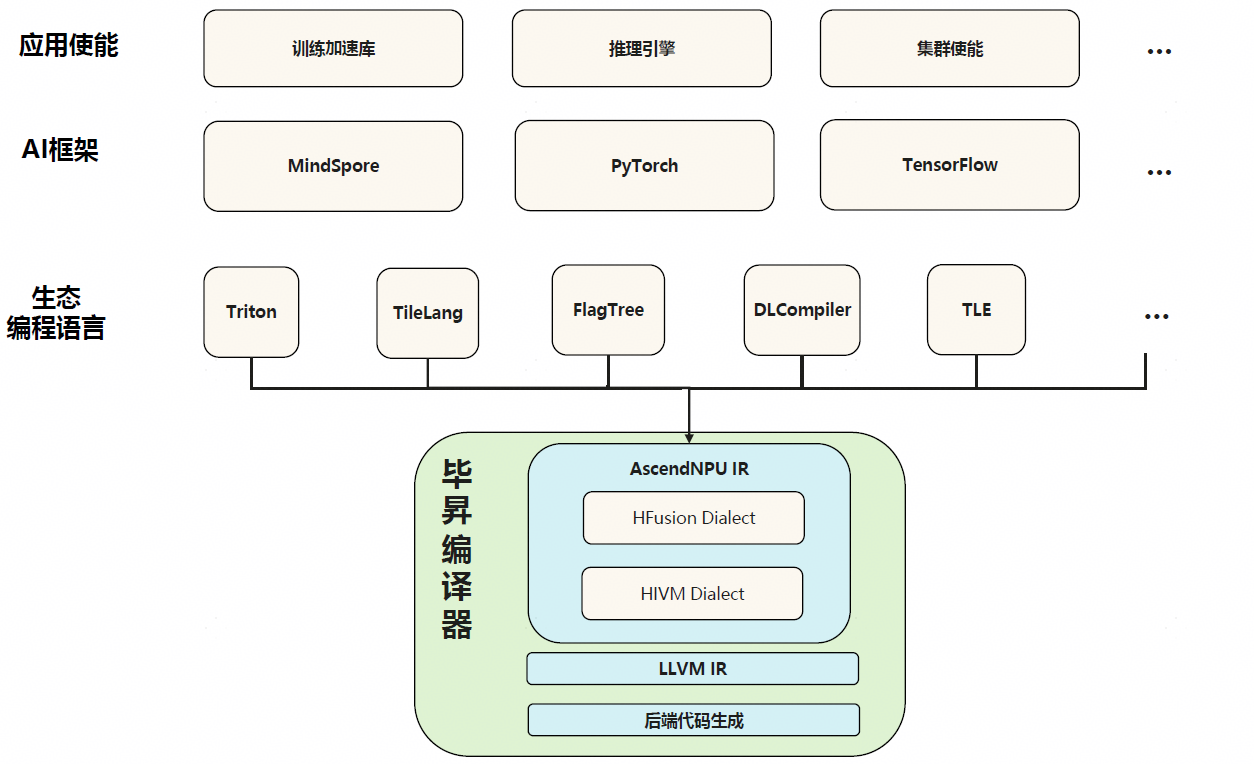
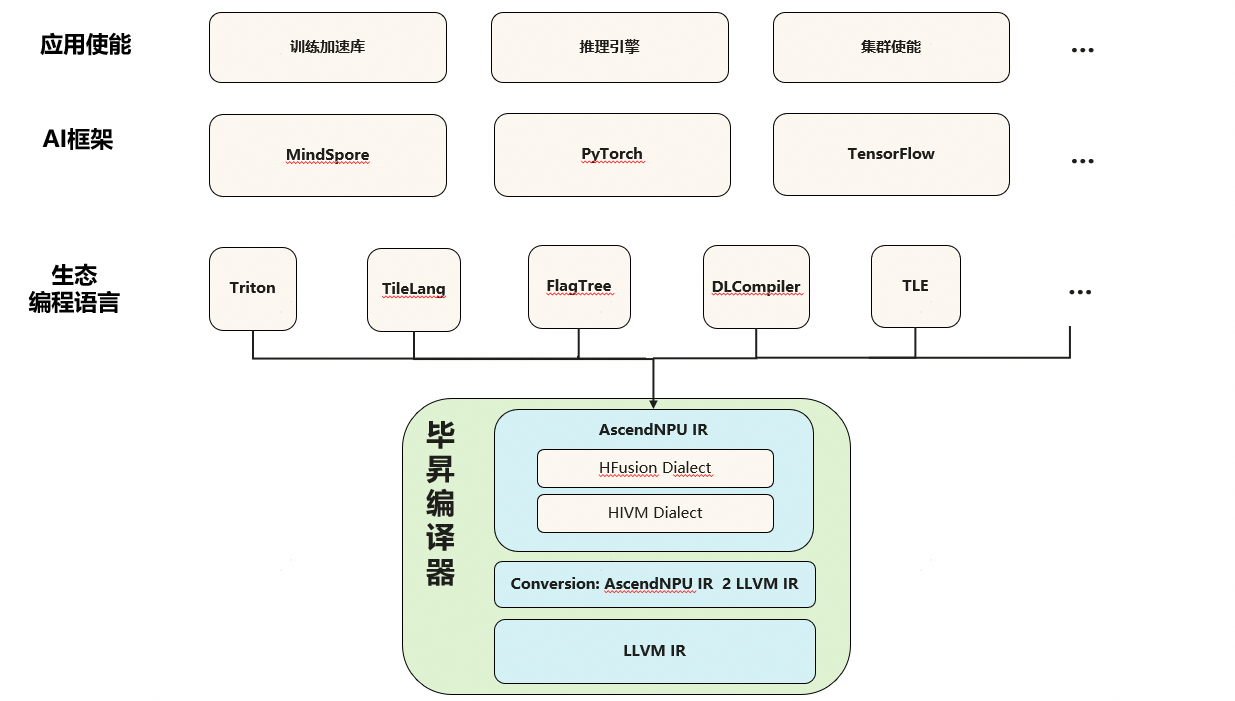
[Huawei][AscendNPU IR][DOC] add architecture description

diff --git a/docs/sources/introduction/architecture.md b/docs/sources/introduction/architecture.md
@@ -61,3 +61,8 @@ bishengir目录结构和mlir目录结构保持一致，其中include下存放声
 ```
 IR中主要由Conversion、Dialect、tools三部分组成，其中Conversion承载不同方言间转换的能力，Dialect下是不同方言的定义和实现，tools目录下定义编译工具链。
 Conversion中既包括三方生态对接转换（如TorchToHFusion）也包括AscendNPU IR内部方言间转换（如HFusionToHIVM）；Dialect下既包括自研方言也包括社区方言（内部是对社区方言的扩展增强）；tools中bishengir-compile是AscendNPU IR编译器的命令行驱动程序。
+
+## 编译流程
+
+AscendNPU IR对应工具链是bishengir-compile，会负责把高抽象层级的Tile级OP编译成感知NPU 硬件架构的low level op，该工具链输入和输出均是mlir。hivmc工具会负责把low level的mlir转成llvm ir并基于LLVM IR进行底层指令编译优化，最终生成算子二进制。
+![](figs/fig3.png)
